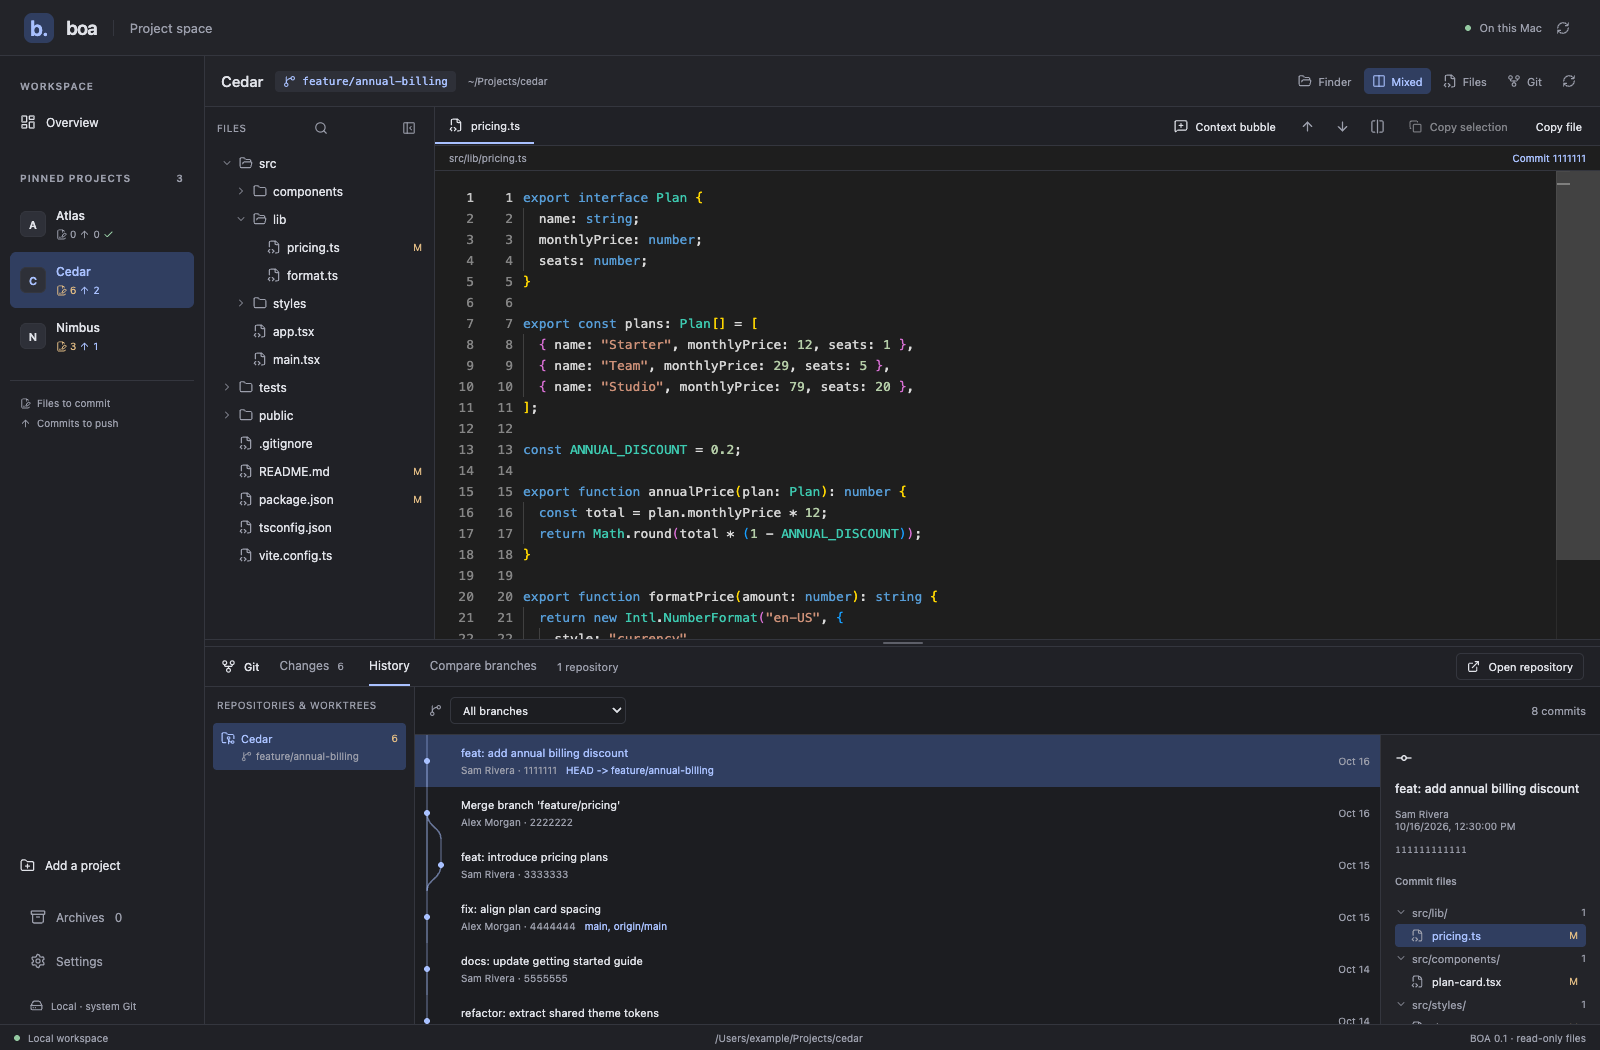
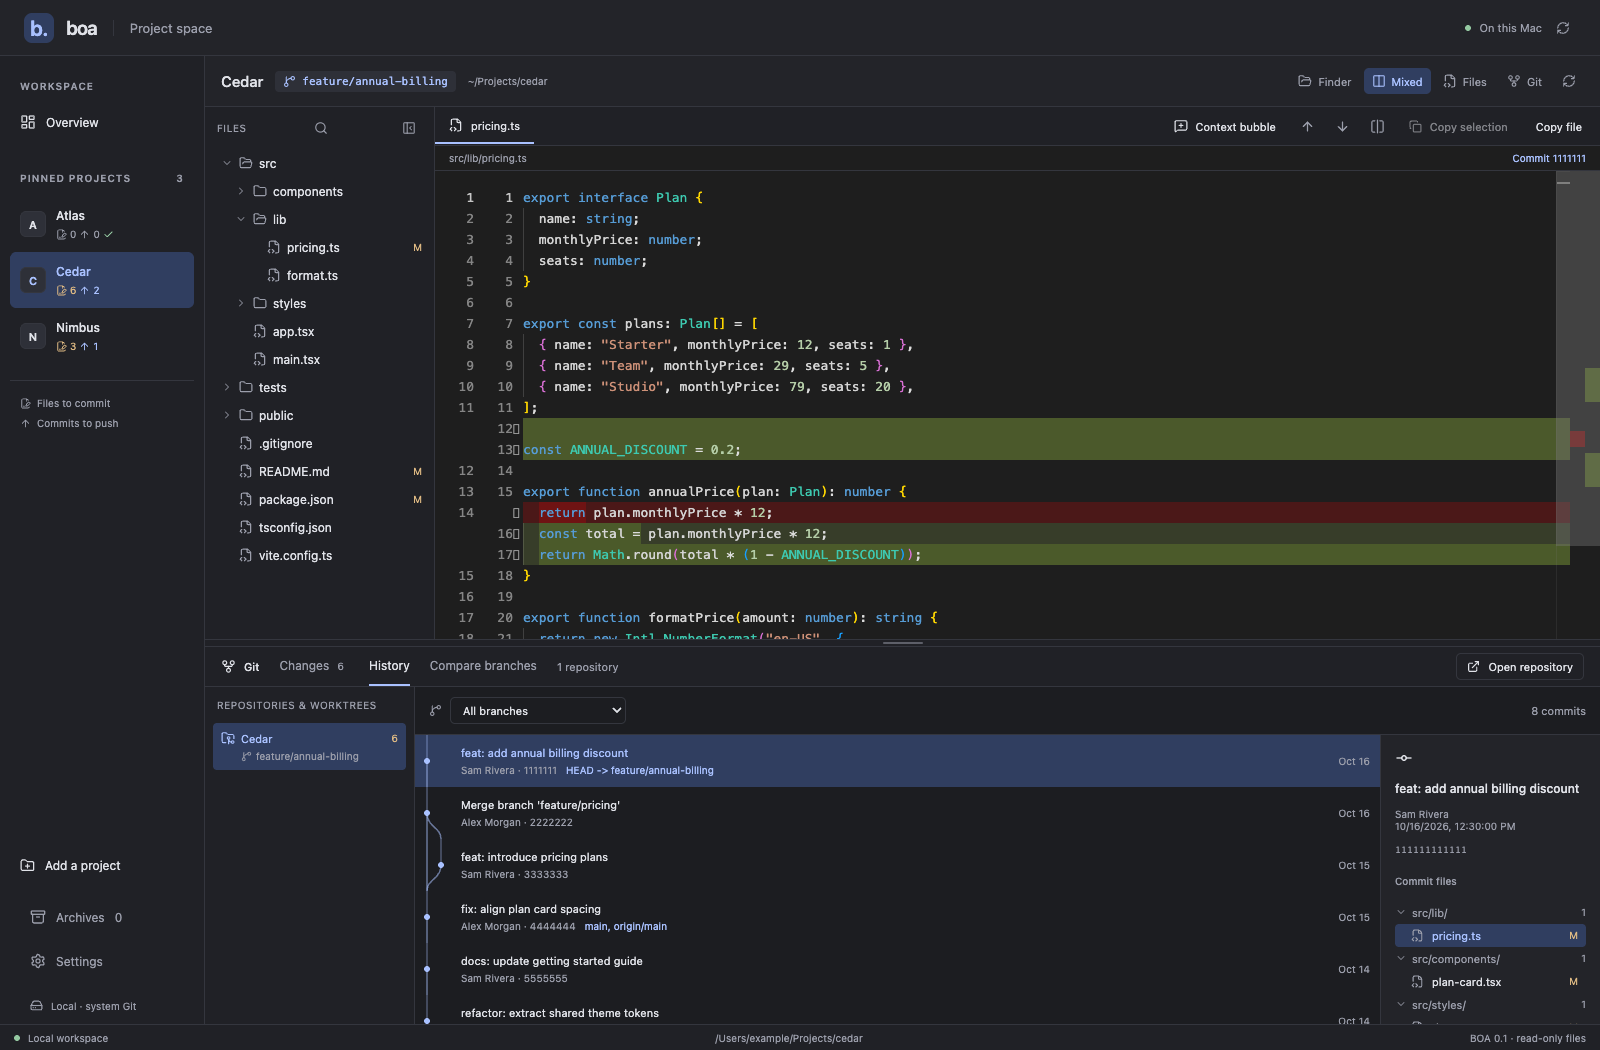
docs: stabilize demo screenshot rendering
Wait for Monaco diff decorations before capturing the project view so added and removed lines are visible. Use Unix seconds for the fictional last-read timestamp to match the native summary contract.

Validation: both screenshot captures, Biome, public-source hygiene and git diff --check passed.

Changed region(s): [[0.3125, 0.3352, 1.0, 0.6095]]

diff --git a/scripts/capture-demo.ts b/scripts/capture-demo.ts
@@ -100,7 +100,7 @@ await page.exposeFunction("boaDemoInvoke", async (command: string, args: Record<
 					},
 				],
 				scanLimited: false,
-				updatedAt: Date.parse("2026-10-16T10:30:00Z"),
+				updatedAt: Date.parse("2026-10-16T10:30:00Z") / 1000,
 			};
 		}
 		case "repository_web_url":
@@ -193,6 +193,7 @@ try {
 	await expect(
 		page.locator(".monaco-diff-editor .view-line").filter({ hasText: "ANNUAL_DISCOUNT" }).first(),
 	).toBeVisible();
+	await expect(page.locator(".monaco-diff-editor .line-insert").first()).toBeVisible();
 	await page.mouse.move(1595, 1045);
 	await page.screenshot({ path: resolve(output, "project.png") });
 	expect(errors).toEqual([]);
